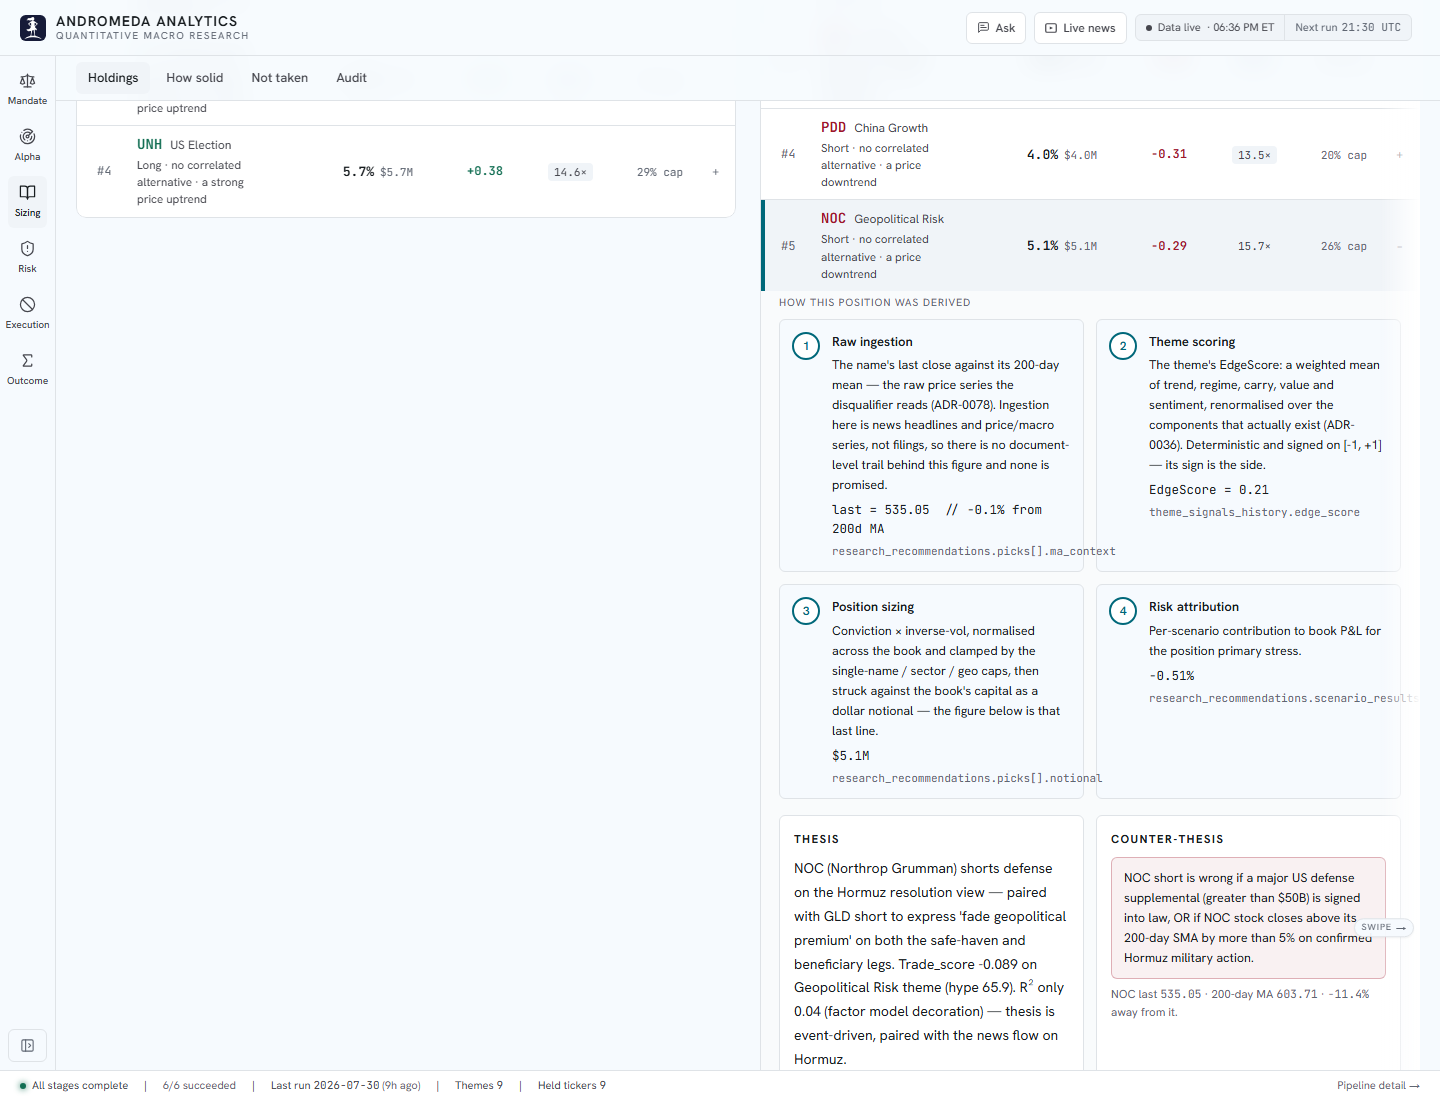
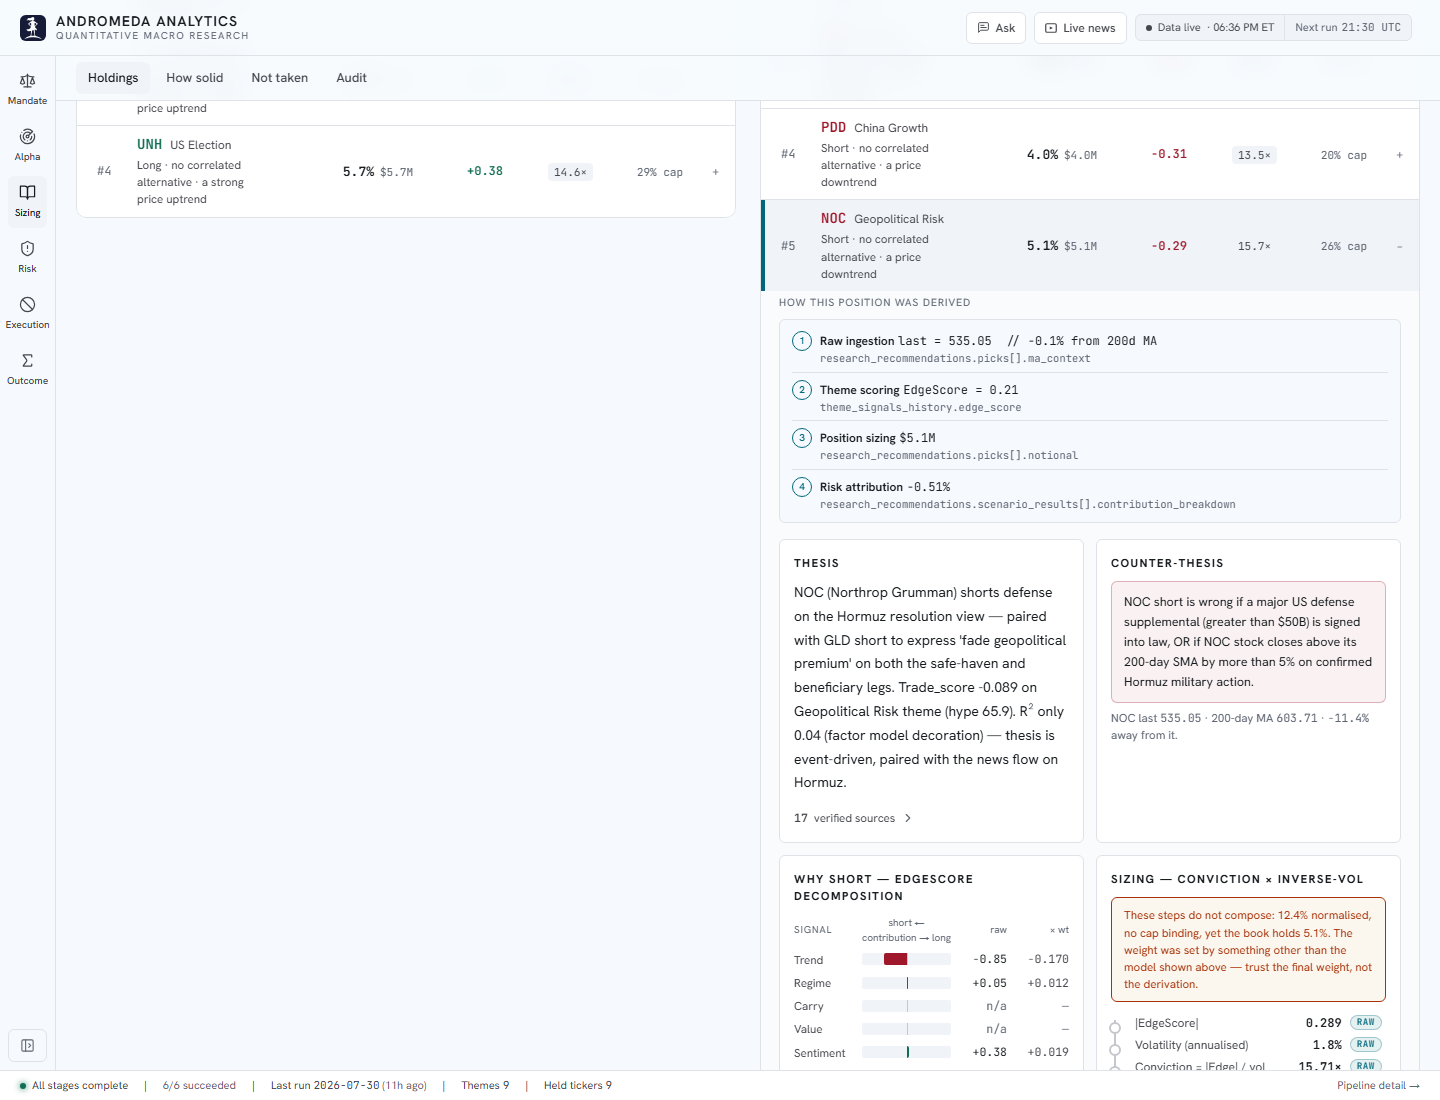
fix(book): the row's derivation is four lines, not four essays
The lineage moved into the row expander as CARDS WITH THEIR PROSE, and the result
was worse than the panel it replaced -- the expander became unreadable.

The reason was in buildWorkedExample the whole time. `step.prose` is METHODOLOGY,
not measurement: steps 1 and 2 are constant string literals, 3 and 4 branch only
on whether the data exists. It is the same four paragraphs on every position.
What differs per position is the FORMULA and the SOURCE -- two short lines.

So opening a row rendered ~40 lines, of which ~32 were a general explanation of
the pipeline repeated nine times over, and the two things a reader opened the row
to see were the smallest text in the block. The previous commit argued about two
columns versus four, which was optimising the layout of content that should not
have been in the row at all.

New `StepLine` export: number, title, figure, source, on one line each.

    (1) Raw ingestion     last = 535.05  // -0.1% from 200d MA
        research_recommendations.picks[].ma_context
    (2) Theme scoring     EdgeScore = 0.21
        theme_signals_history.edge_score
    (3) Position sizing   $5.1M
        research_recommendations.picks[].notional
    (4) Risk attribution  -0.51%
        research_recommendations.scenario_results[].contribution_breakdown

`StepNumbered` is untouched and still exported for anywhere a full step belongs.

The prose survives as the `title` attribute. That is acceptable for a DEFINITION
[…]

diff --git a/frontend/components/book/PositionRow.tsx b/frontend/components/book/PositionRow.tsx
@@ -18,7 +18,7 @@ import Link from "next/link";
 import CitationList, { Citation } from "@/components/CitationList";
 import EdgeBars from "@/components/book/EdgeBars";
 import SizingChainView from "@/components/book/SizingChainView";
-import { StepNumbered } from "@/components/book/StepNumbered";
+import { StepLine } from "@/components/book/StepNumbered";
 import type { WorkedExampleStep } from "@/lib/book/workedExample";
 import PositionMarginalRisk from "@/components/book/PositionMarginalRisk";
 import { type IndependentIdeas } from "@/components/book/PoolDepth";
@@ -431,19 +431,21 @@ export function PositionRow({
               <h4 className="m-0 mb-2 text-[10.5px] uppercase tracking-[0.08em] text-text-tertiary">
                 How this position was derived
               </h4>
-              {/* TWO columns at most, never four. The standalone panel this
-                  replaces was full-page width, where four across worked; a row
-                  lives inside the Longs/Shorts pair, so each table is ~660px and
-                  four steps across it gave each ~150px — prose wrapping to two
-                  and three words a line. Measured at 1440: 2 columns is ~320px a
-                  step, which the sentence fits. */}
-              <ol className="m-0 p-0 list-none grid sm:grid-cols-2 gap-3">
+              {/* FOUR LINES, not four cards. Cards were tried first and made the
+                  expander unreadable: each carried a paragraph of methodology
+                  that is identical on all nine rows, so opening a position put
+                  ~40 lines of general explanation above the thesis, and the two
+                  things that actually differ per position — the figure and its
+                  source — were the smallest text in the block.
+
+                  As a chain the whole derivation is four lines and reads as what
+                  it is: ingestion, scoring, sizing, attribution, each with the
+                  number it produced. The cards below expand every one of these
+                  in full; this is the index, not a second copy of them. */}
+              <ol className="m-0 p-0 list-none divide-y divide-border rounded-md border border-border bg-bg-primary px-3 py-1">
                 {lineage.map((step) => (
-                  <li
-                    key={step.number}
-                    className="min-w-0 rounded-md border border-border bg-bg-primary p-3"
-                  >
-                    <StepNumbered step={step} />
+                  <li key={step.number} className="min-w-0">
+                    <StepLine step={step} />
                   </li>
                 ))}
               </ol>

diff --git a/frontend/components/book/StepNumbered.tsx b/frontend/components/book/StepNumbered.tsx
@@ -14,6 +14,59 @@
 import type { WorkedExampleStep } from "@/lib/book/workedExample";
 import { Reconciliation } from "@/components/Reconciliation";
 
+/**
+ * The same step, as ONE LINE, for a context that repeats it.
+ *
+ * `step.prose` is METHODOLOGY, not measurement: steps 1 and 2 are constant
+ * strings and 3 and 4 branch only on whether the data exists. It is the same
+ * paragraph on every position. Rendered full-size inside a row expander that is
+ * already nine cards deep, it put four identical paragraphs between the reader
+ * and the position they opened \u2014 the prose was 80% of the block and 0% of the
+ * per-position content, which is the formula and the source.
+ *
+ * So the compact form drops the prose and keeps what differs: number, title,
+ * figure, source. The prose survives as the `title` attribute \u2014 acceptable here
+ * and NOT for the source line, because a definition may sit behind a hover and a
+ * citation may not (design goal 1).
+ */
+export function StepLine({ step }: { step: WorkedExampleStep }) {
+  const isGap = !step.sourcePersisted || step.formula.startsWith("\u2014");
+  return (
+    <div
+      className="grid grid-cols-[1.25rem_1fr] gap-x-2 gap-y-0.5 py-1.5"
+      data-testid={`worked-example-step-${step.number}`}
+      data-step-number={step.number}
+      title={step.prose}
+    >
+      <span
+        aria-hidden="true"
+        className="flex items-center justify-center w-5 h-5 rounded-full border border-accent text-[10px] font-semibold text-accent leading-none mt-[1px]"
+      >
+        {step.number}
+      </span>
+      <div className="min-w-0">
+        <span className="text-[12px] font-semibold text-text-primary">
+          {step.title}
+        </span>{" "}
+        <span
+          className={`num text-[12px] whitespace-pre-wrap ${isGap ? "text-text-tertiary" : "text-text-primary"}`}
+        >
+          {step.formula}
+        </span>
+        {step.formulaGap && (
+          <span className="text-[11px] text-text-tertiary"> {step.formulaGap}</span>
+        )}
+        <div className="text-[10.5px] text-text-tertiary num leading-[1.4]">
+          {step.sourceColumn}
+          {!step.sourcePersisted && step.sourceGap && (
+            <span className="ml-1">{"\u2014 "}{step.sourceGap}</span>
+          )}
+        </div>
+      </div>
+    </div>
+  );
+}
+
 export function StepNumbered({ step }: { step: WorkedExampleStep }) {
   const isGap = !step.sourcePersisted || step.formula.startsWith("\u2014");
   return (

diff --git a/docs/adrs/0204-the-lineage-belongs-to-the-position-not-to-a-panel.md b/docs/adrs/0204-the-lineage-belongs-to-the-position-not-to-a-panel.md
@@ -68,10 +68,12 @@ applies to all nine positions instead of to whichever had the largest edge.
 - The anchor is `position-${asset}`, keyed on the ticker, not on the composite
   open-key (`${section}-${asset}-${index}`). An anchor carrying a rank would break the
   moment a position changed rank between runs.
-- **Two columns, never four**, and this is measured rather than styled. The panel was
+- ~~**Two columns, never four**, and this is measured rather than styled. The panel was
   full-page width, where four steps across worked. A row lives inside the Longs/Shorts
   pair, so each table is ~660px at 1440 and four steps across gave each ~150px — prose
-  wrapping to two and three words a line. Two columns is ~320px a step.
+  wrapping to two and three words a line. Two columns is ~320px a step.~~
+  **Superseded the same day — see the correction below. The column count was the wrong
+  question; the prose should not have been in the row at all.**
 - **`scrollIntoView({ block: "start" })`, with `scroll-mt-24` on the row.** `center`
   was tried first and put the reader in the middle of the EdgeScore bars with the four
   steps scrolled off the top — a chip that promised a derivation and delivered the
@@ -80,3 +82,35 @@ applies to all nine positions instead of to whichever had the largest edge.
 - `lib/book/workedExample.ts` and `StepNumbered` are untouched and still tested;
   `pickWorkedExamplePosition` is now unused by the app and kept only for its tests,
   which is worth revisiting when something else needs it or nothing does.
+
+## Correction, 2026-07-31 (same day, appended not rewritten)
+
+The first version moved the steps into the row **as cards, with their prose**, and the
+result was worse than the panel it replaced: the row expander became unreadable.
+
+The reason is in `buildWorkedExample`, and I should have read it before choosing a
+layout. **`step.prose` is methodology, not measurement.** Steps 1 and 2 are constant
+string literals; 3 and 4 branch only on whether the data exists. It is the same four
+paragraphs on every position. What differs per position is the **formula** and the
+**source** — two short lines.
+
+So the row was rendering ~40 lines, of which ~32 were a general explanation of the
+pipeline repeated nine times over, and the two things a reader opened the row to see
+were the smallest text in the block. Arguing about two columns versus four was
+optimising the layout of content that did not belong there.
+
+The steps are now **four lines**, one per stage, via a new `StepLine` export:
+number, title, figure, source. `StepNumbered` is unchanged and still used where a full
+step belongs. The prose survives as the `title` attribute — acceptable for a
+*definition* and not for a *citation*, which is why the source line stays visible
+(design goal 1).
+
+What this buys, beyond fitting: the derivation now reads as a **chain** —
+`535.05 → EdgeScore 0.21 → $5.1M → −0.51%` — which is the thing ADR-0081 wanted from
+pipeline order in the first place, and which four prose cards actively obscured. The
+detailed instruments below (EdgeBars, SizingChainView, the scenario lines) expand every
+one of these; the chain is the index, not a second copy.
+
+Found by capturing the page and looking at it, not by reasoning about it. That is twice
+in one panel — the funnel's "context cap" mislabel was the same failure — and both
+times the fix was to read the data the component was rendering.
